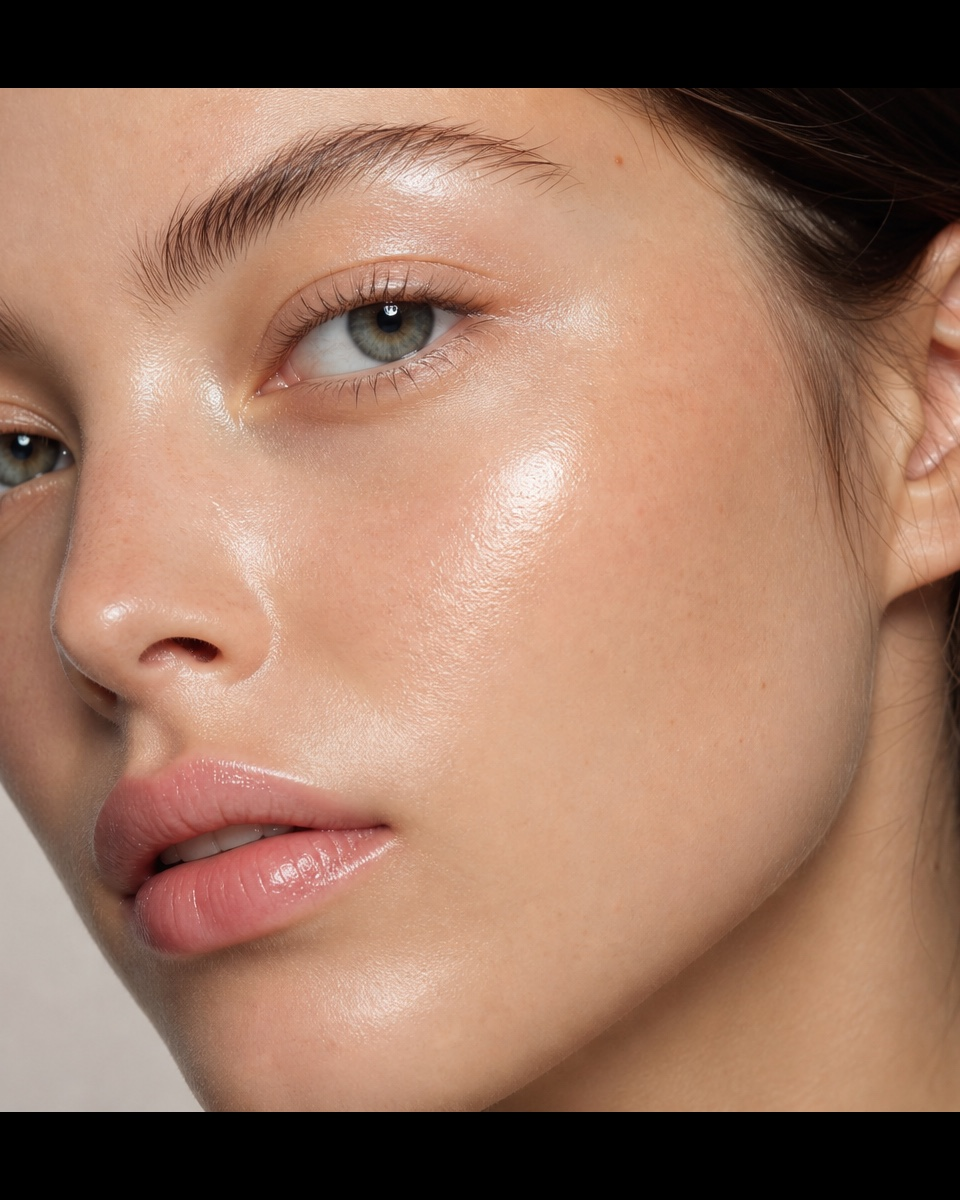
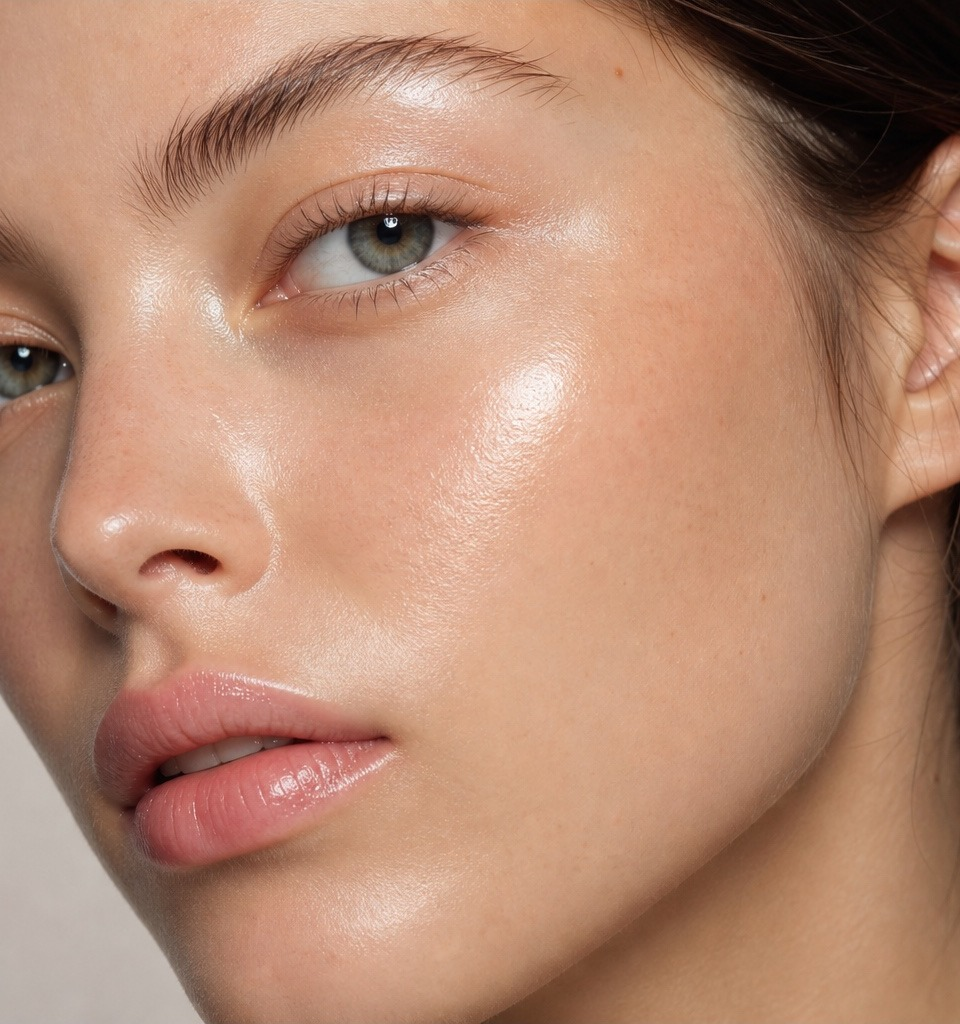
Oříznout černé pruhy u fotek a zvětšit cover ořezem.
Studio a karty ošetření bez letterboxu, object-fit cover + mírný zoom.

diff --git a/public/lume/index.html b/public/lume/index.html
@@ -49,10 +49,10 @@ a{color:inherit;text-decoration:none}
 .ph{z-index:0}
 .hero-photo:has(.rimg) .ph,.edi-model:has(.rimg) .ph,.svc-cover:has(.rimg) .ph,.excl-bg:has(.rimg) .ph,.ba:has(.rimg) .ph{display:none}
 .rimg--hero{object-position:88% 26%}
-.rimg--studio{object-position:center 18%}
+.rimg--studio{object-position:center 26%;transform:scale(1.1);transform-origin:center center}
 .rimg--excl{object-position:center center}
 .rimg--ba{object-position:center 22%}
-.rimg--svc{object-position:center 28%}
+.rimg--svc{object-position:center 34%;transform:scale(1.1);transform-origin:center center}
 .figure{width:46%;max-width:120px;opacity:.4}
 
 /* glass */
@@ -139,7 +139,7 @@ a{color:inherit;text-decoration:none}
   background:linear-gradient(165deg,var(--silver-top) 0%,var(--silver-mid) 30%,var(--silver-lo) 64%,var(--cream) 92%,#fbfaf6 100%)}
 .svc:hover .svc-cover{transform:translateY(-6px);box-shadow:0 34px 66px rgba(38,37,35,.22)}
 .svc-cover .ph{position:absolute;inset:0;background:linear-gradient(160deg,#b7b9b6,#cfd0cb 50%,#eceae4)}
-.svc-cover .rimg{object-position:center 28%}
+.svc-cover .rimg{object-position:center 34%}
 .svc-cover::before{content:'';position:absolute;left:0;right:0;bottom:0;height:44%;z-index:3;pointer-events:none;background:linear-gradient(to top,#fbfaf6 8%,rgba(251,250,246,.6) 36%,transparent 76%)}
 .svc-fluted{position:absolute;top:0;bottom:0;right:0;width:26%;z-index:2;backdrop-filter:blur(2px);-webkit-backdrop-filter:blur(2px);
   background:repeating-linear-gradient(90deg,rgba(255,255,255,.34) 0px,rgba(255,255,255,.1) 3px,rgba(255,255,255,.02) 6px,rgba(255,255,255,.12) 9px,rgba(255,255,255,.34) 12px);
@@ -407,7 +407,7 @@ a{color:inherit;text-decoration:none}
   <div class="wrap edi-grid">
     <div class="edi-model rv">
       <div class="ph"><svg class="figure" viewBox="0 0 24 24" fill="none"><circle cx="12" cy="7" r="4" stroke="currentColor" stroke-width="1.1"/><path d="M4 22c0-4.4 3.6-8 8-8s8 3.6 8 8" stroke="currentColor" stroke-width="1.1" stroke-linecap="round"/></svg><span class="ph-tag">Sem přijde fotka</span></div>
-      <img class="rimg rimg--studio" src="/lume/img/studio-model.jpg?v=3" alt="LUMÉ studio" loading="lazy" decoding="async">
+      <img class="rimg rimg--studio" src="/lume/img/studio-model.jpg?v=4" alt="LUMÉ studio" loading="lazy" decoding="async">
       <div class="ef" aria-hidden="true"></div>
       <div class="ecap">Aesthetic studio · Praha</div>
       <div class="edate">2026</div>
@@ -553,7 +553,7 @@ a{color:inherit;text-decoration:none}
     {n:'Lifting pleti',d:'Zpevnění a vypnutí kontur obličeje bez skalpelu. Postupně a přirozeně.',p:'od 7 500 Kč'},
     {n:'Laserové ošetření',d:'Řešení pigmentací, zarudnutí i jizviček. Sjednocená a hladká pleť.',p:'od 3 900 Kč'}
   ];
-  var IMG={1:'/lume/osetreni/botulotoxin.jpg?v=3',2:'/lume/osetreni/vyplne-rtu.jpg?v=3',3:'/lume/osetreni/skinboosters.jpg?v=3',4:'/lume/osetreni/mezoterapie.jpg?v=3',5:'/lume/osetreni/lifting.jpg?v=3',6:'/lume/osetreni/laser.jpg?v=3'};
+  var IMG={1:'/lume/osetreni/botulotoxin.jpg?v=4',2:'/lume/osetreni/vyplne-rtu.jpg?v=4',3:'/lume/osetreni/skinboosters.jpg?v=4',4:'/lume/osetreni/mezoterapie.jpg?v=4',5:'/lume/osetreni/lifting.jpg?v=4',6:'/lume/osetreni/laser.jpg?v=4'};
   document.getElementById('svcGrid').innerHTML=SVC.map(function(s,i){
     var k=i+1,num=(k<10?'0':'')+k;
     return '<article class="svc rv">'+
